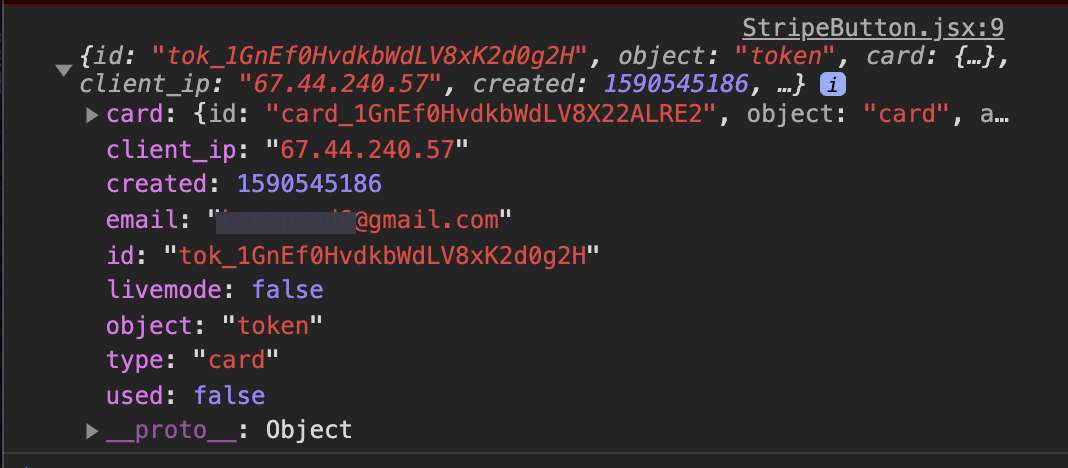
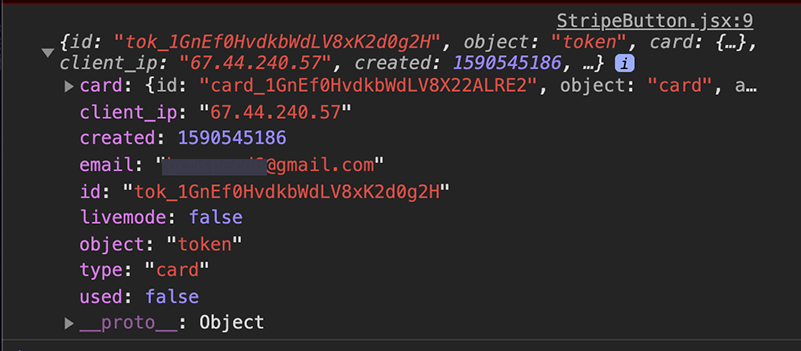
Completed blog post, re-sized images

diff --git a/content/blog/stripe-react-client/index.md b/content/blog/stripe-react-client/index.md
@@ -6,23 +6,23 @@ img: ./credit.jpg # Add image post (optional)
 tags: [Stripe, React, Payments]
 ---
 
-&nbsp;&nbsp;&nbsp;&nbsp;&nbsp;&nbsp;Stripe is a payment processor renowned for their developer experience. Using Stripe to take in credit card information is a HUGE time saver during development; it is also a great move regarding security and protecting your users. This guide will get you started on using Stripe to take payments on your React applications. I will be covering the backend setup at a later date, but for now; this is how you set up Stripe on the client side.
+&nbsp;&nbsp;&nbsp;&nbsp;&nbsp;&nbsp;Stripe is a payment processor renowned for their awesome developer experience. Using Stripe to receive credit card information is a HUGE time saver during development; it is also a great strategy regarding security and protecting your users. This guide will get you started on using Stripe to take payments on your React applications. I will be covering the back-end setup at a later date, but for now; this is how you set up Stripe on the client side.
 
 ## Stripe Console
 
-&nbsp;&nbsp;&nbsp;&nbsp;&nbsp;&nbsp;First things first, sign up for an account at https://stripe.com and verify your email address. This will give you access to your dashboard.Let's navigate to the developers section, and choose API keys to view our API keys. Save your publishiable key to your clip board, we will be using it shortly.
+&nbsp;&nbsp;&nbsp;&nbsp;&nbsp;&nbsp;First things first, sign up for an account at https://stripe.com and verify your email address. This will give you access to the dashboard. Let's navigate to the developers area, and choose API keys in order to view our API keys. Save the publishable key to your clip board, we will be using it shortly.
 
 ![Stripe API keys](./api-keys.png)
 
 ## React Configuration
 
-&nbsp;&nbsp;&nbsp;&nbsp;&nbsp;&nbsp;Now this is the cool stuff! Open up your terminal and install the react-stripe-checkout library with:
+&nbsp;&nbsp;&nbsp;&nbsp;&nbsp;&nbsp;Now this is the cool stuff! Open up the terminal and install the react-stripe-checkout library with:
 
 `npm i react-stripe-checkout`
 
 ![Install the Stripe library](./term1.png)
 
-&nbsp;&nbsp;&nbsp;&nbsp;&nbsp;&nbsp;After installing the package, let's navigate to our components folder and create new component for the Stripe button that will trigger the payment modal:
+&nbsp;&nbsp;&nbsp;&nbsp;&nbsp;&nbsp;After installing the library, let's navigate to our components folder and create a new component for the Stripe button that will trigger a payment modal:
 
 ![Suggested directory structure](./folder-structure.png)
 
@@ -32,19 +32,19 @@ tags: [Stripe, React, Payments]
 
 `import StripeCheckout from 'react-stripe-checkout';`
 
-&nbsp;&nbsp;&nbsp;&nbsp;&nbsp;&nbsp;Our StripeCheckoutButton component will be functional, and take in the price as an argument. One thing to note about Stripe, is that they look for the total amount to charge in cents. This means we will have to instantiate a new variable inside the function called priceForStripe and set it to price \* 100 if you are working with USD. We will also need to assign our publishable key we copied earlier to a variable inside this function as well. This functional component needs to return the
+&nbsp;&nbsp;&nbsp;&nbsp;&nbsp;&nbsp;Our StripeCheckoutButton component will be functional, and take in the price as an argument. One thing to note about Stripe, is that they look for the total amount to charge in cents. This means we will have to instantiate a new variable inside the function called priceForStripe; and set it to price \* 100 if you are working with USD. We will also need to assign our publishable key that we copied earlier to a variable inside this function as well. This functional component needs to return the
 
 `<StripeCheckout />`
 
 component we imported earlier. Your component should now look like this:
 
-![StripeButton component 1](./stripe-button-1.png)
+![StripeButton component](./stripe-button-1.png)
 
-&nbsp;&nbsp;&nbsp;&nbsp;&nbsp;&nbsp;The StripeCheckout component takes in predefined props from the react-stripe-checkout. These props configure the options your Stripe modal displays. Here is a list of most of the props you can pass and what they achieve:
+&nbsp;&nbsp;&nbsp;&nbsp;&nbsp;&nbsp;The StripeCheckout component takes in predefined props from the react-stripe-checkout library. These props configure the options your Stripe modal adheres to. Here is a list of most of the props you can pass and what they achieve:
 
-![Props to use on StripeCheckout](./checkout-props.png)
+![Possible props to pass into StripeCheckout](./checkout-props.png)
 
-&nbsp;&nbsp;&nbsp;&nbsp;&nbsp;&nbsp;I've configured my StripeCheckout component with the following options:
+&nbsp;&nbsp;&nbsp;&nbsp;&nbsp;&nbsp;I've configured my StripeCheckout component with the following properties:
 
 `label='Pay Now'`
 
@@ -66,19 +66,19 @@ component we imported earlier. Your component should now look like this:
 
 `stripeKey={publishableKey}`
 
-&nbsp;&nbsp;&nbsp;&nbsp;&nbsp;&nbsp;For the token property, we need to make the onToken function. This onToken function will take in the token as an argument, and we will just console.log the token for now and alert that a payment was successful. The token gets returned from the Stripe API once a successful payment has gone through, you will need to pass this token to your backend to complete the processing. For now, we are just focused on getting Stripe up and running on the client side. I will have another article for the backend at a later date. Your finished StripeButton component should now look this:
+&nbsp;&nbsp;&nbsp;&nbsp;&nbsp;&nbsp;For the token property, we need to make the onToken function. This onToken function will take in the token as an argument, and we will console.log the token for now and alert that a payment was successful. The token is generated on a successful payment, you will need to pass this token to the back-end to complete payment processing. For now, we are only focused on getting Stripe up and running on the client side. I will have another article for the back-end at a later date. Your finished StripeButton component should now look this:
 
 ![Finished StripeButton component](./stripe-button-fin.png)
 
-&nbsp;&nbsp;&nbsp;&nbsp;&nbsp;&nbsp;Next stop is to import this new StripeButton component into your checkout component and pass in the variable that houses the total cost that you are charging:
+&nbsp;&nbsp;&nbsp;&nbsp;&nbsp;&nbsp;Next step is to import this new StripeButton component into your checkout component and pass in the variable that houses the total cost of whatever you are charging:
 
 ![Pass in the cost to the new component](./checkout-priced.png)
 
-&nbsp;&nbsp;&nbsp;&nbsp;&nbsp;&nbsp;Congratulations! You now have Stripe integrated with your React front-end. Launch your project and click the Pay Now button. You will see the following Modal that accepts a Credit Card:
+&nbsp;&nbsp;&nbsp;&nbsp;&nbsp;&nbsp;Congratulations! You now have Stripe integrated with your React front-end. Launch your project and click the Pay Now button. You will see the following Modal that accepts a credit card:
 
 ![Success](./modal.png)
 
-&nbsp;&nbsp;&nbsp;&nbsp;&nbsp;&nbsp;To test the functionality, fill in your information, and use the following test credit card information:
+&nbsp;&nbsp;&nbsp;&nbsp;&nbsp;&nbsp;To test functionality, fill in form, and use the following test credit card information:
 
 Card number: `4242 4242 4242 4242`
 
@@ -86,14 +86,14 @@ MM / YY: `12 / 20`
 
 CVC: `123`
 
-&nbsp;&nbsp;&nbsp;&nbsp;&nbsp;&nbsp;You should see an alert for successful payment. If you open up dev tools, you should see the token that was generated because of the console.log statement we put in our StripeButton component.
+&nbsp;&nbsp;&nbsp;&nbsp;&nbsp;&nbsp;You should see an alert for successful payment. If you open up the browser's developer tools, you should see the token that was generated because of the console.log statement we wrote in earlier.
 
 ![Token](./token.png)
 
-&nbsp;&nbsp;&nbsp;&nbsp;&nbsp;&nbsp;This token will need to get passed through to your backend, and then to Stripe to actually complete the transaction; but that is beyond the scope of this article. I just wanted to show you how we can integrate Stripe with our React frontend. We will cover the backend portion in a future article.
+&nbsp;&nbsp;&nbsp;&nbsp;&nbsp;&nbsp;This token will need to get passed through to your back-end, and then sent to Stripe to fully complete the transaction; but that is beyond the scope of this article. I only wanted to show how we can integrate Stripe with our React front-end for now. We will cover the back-end logic in a future article.
 
 ## What's Next?
 
-&nbsp;&nbsp;&nbsp;&nbsp;&nbsp;&nbsp;Next we will talk about optimizing your applications and the importance site speed can have for your organization. This topic doesn't really get talked about too often, but it is super important to know how to squeeze every bit of performance out of your web applications.
+&nbsp;&nbsp;&nbsp;&nbsp;&nbsp;&nbsp;Next we will talk about optimizing your applications and the importance site speed can have for your organization. This topic isn't really covered too often when you are starting out in web development, but it is super important to know how to squeeze every bit of performance out of your web applications.
 
 Thanks for reading!
